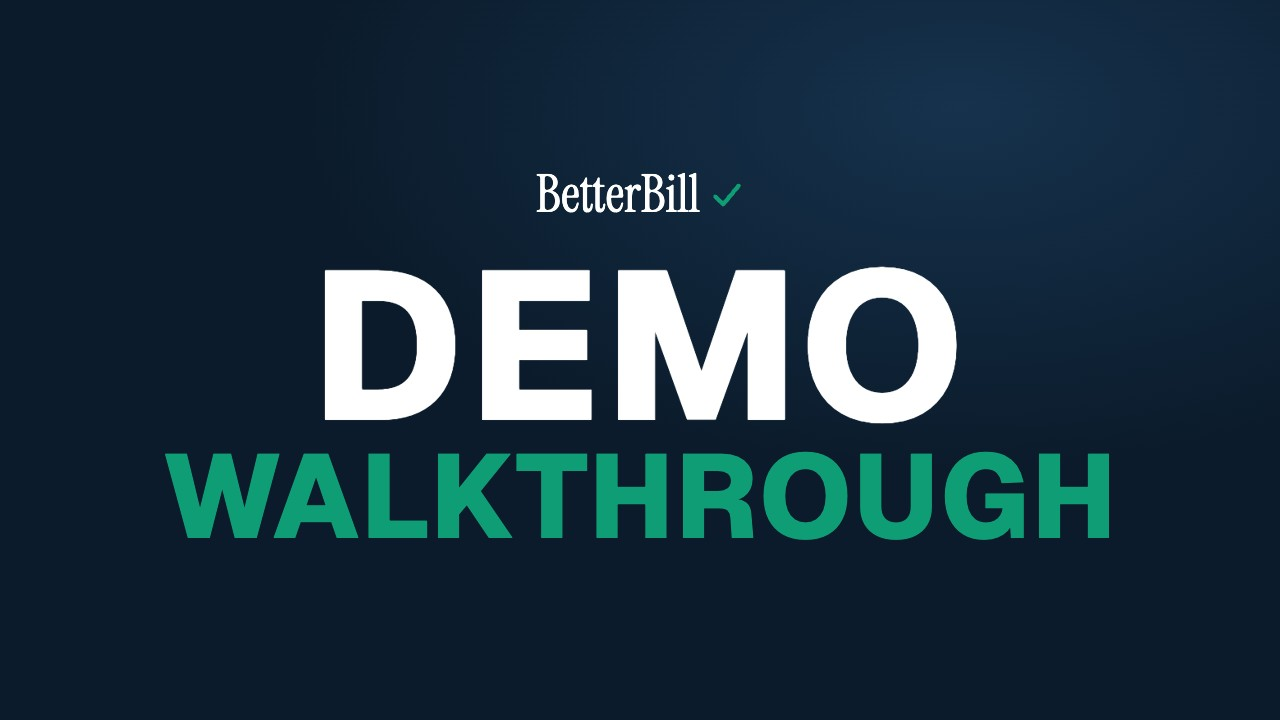
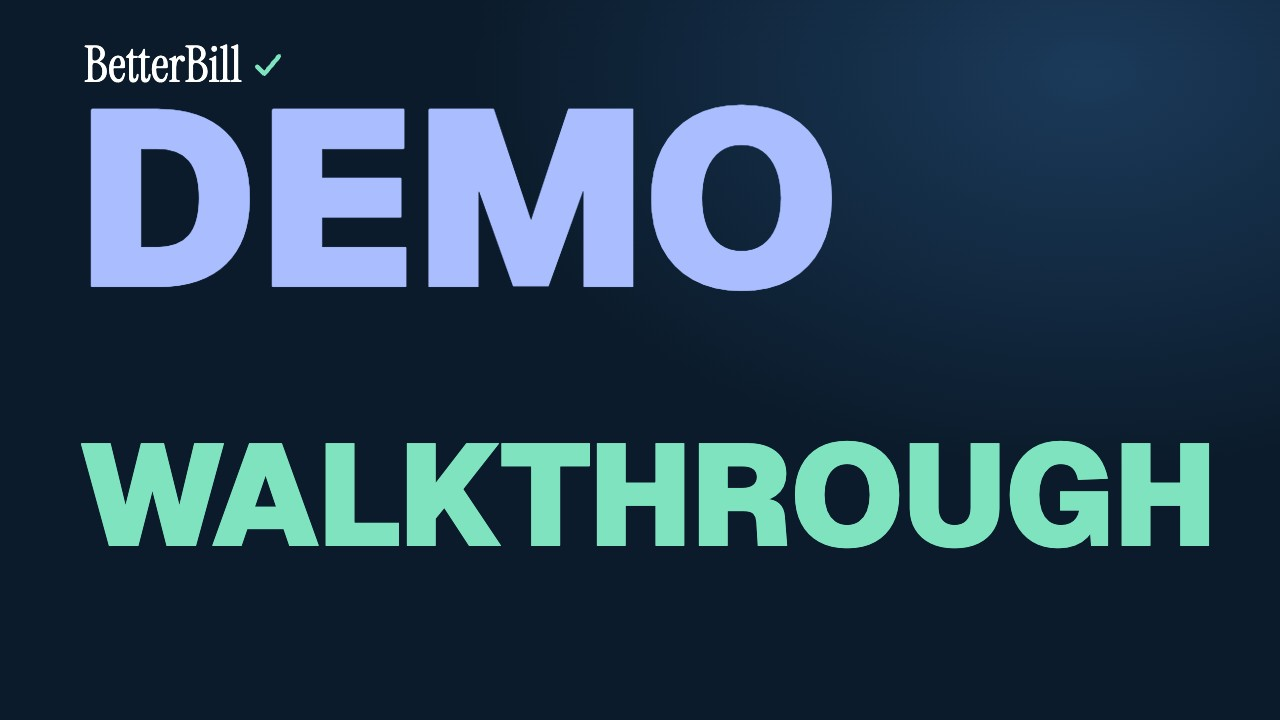
docs(readme): dark and light demo thumbnails, left-aligned, center clear for a play button

Changed region(s): [[0.0625, 0.1222, 0.9688, 0.7639], [0.0625, 0.0611, 0.2188, 0.1222]]

diff --git a/README.md b/README.md
@@ -4,7 +4,13 @@
 
 Built in 24 hours at LA Hacks 2026. Free to check. [Live app](https://betterbill.matmanna.dev) · [Demo video](https://vimeo.com/matmanna/betterbillgg) · [Try the sample bill](https://betterbill.matmanna.dev/check)
 
-[![Watch the BetterBill trailer on Vimeo (2:56)](docs/screenshots/trailer-thumbnail.jpg)](https://vimeo.com/matmanna/betterbillgg)
+<a href="https://vimeo.com/matmanna/betterbillgg">
+  <picture>
+    <source media="(prefers-color-scheme: dark)" srcset="docs/screenshots/trailer-thumbnail.jpg">
+    <source media="(prefers-color-scheme: light)" srcset="docs/screenshots/trailer-thumbnail-light.jpg">
+    <img src="docs/screenshots/trailer-thumbnail-light.jpg" alt="Watch the BetterBill demo walkthrough on Vimeo (2:56)">
+  </picture>
+</a>
 
 ▶ **[Watch the trailer on Vimeo (2:56)](https://vimeo.com/matmanna/betterbillgg)** · [download the MP4](betterbill-demo.mp4)
 
